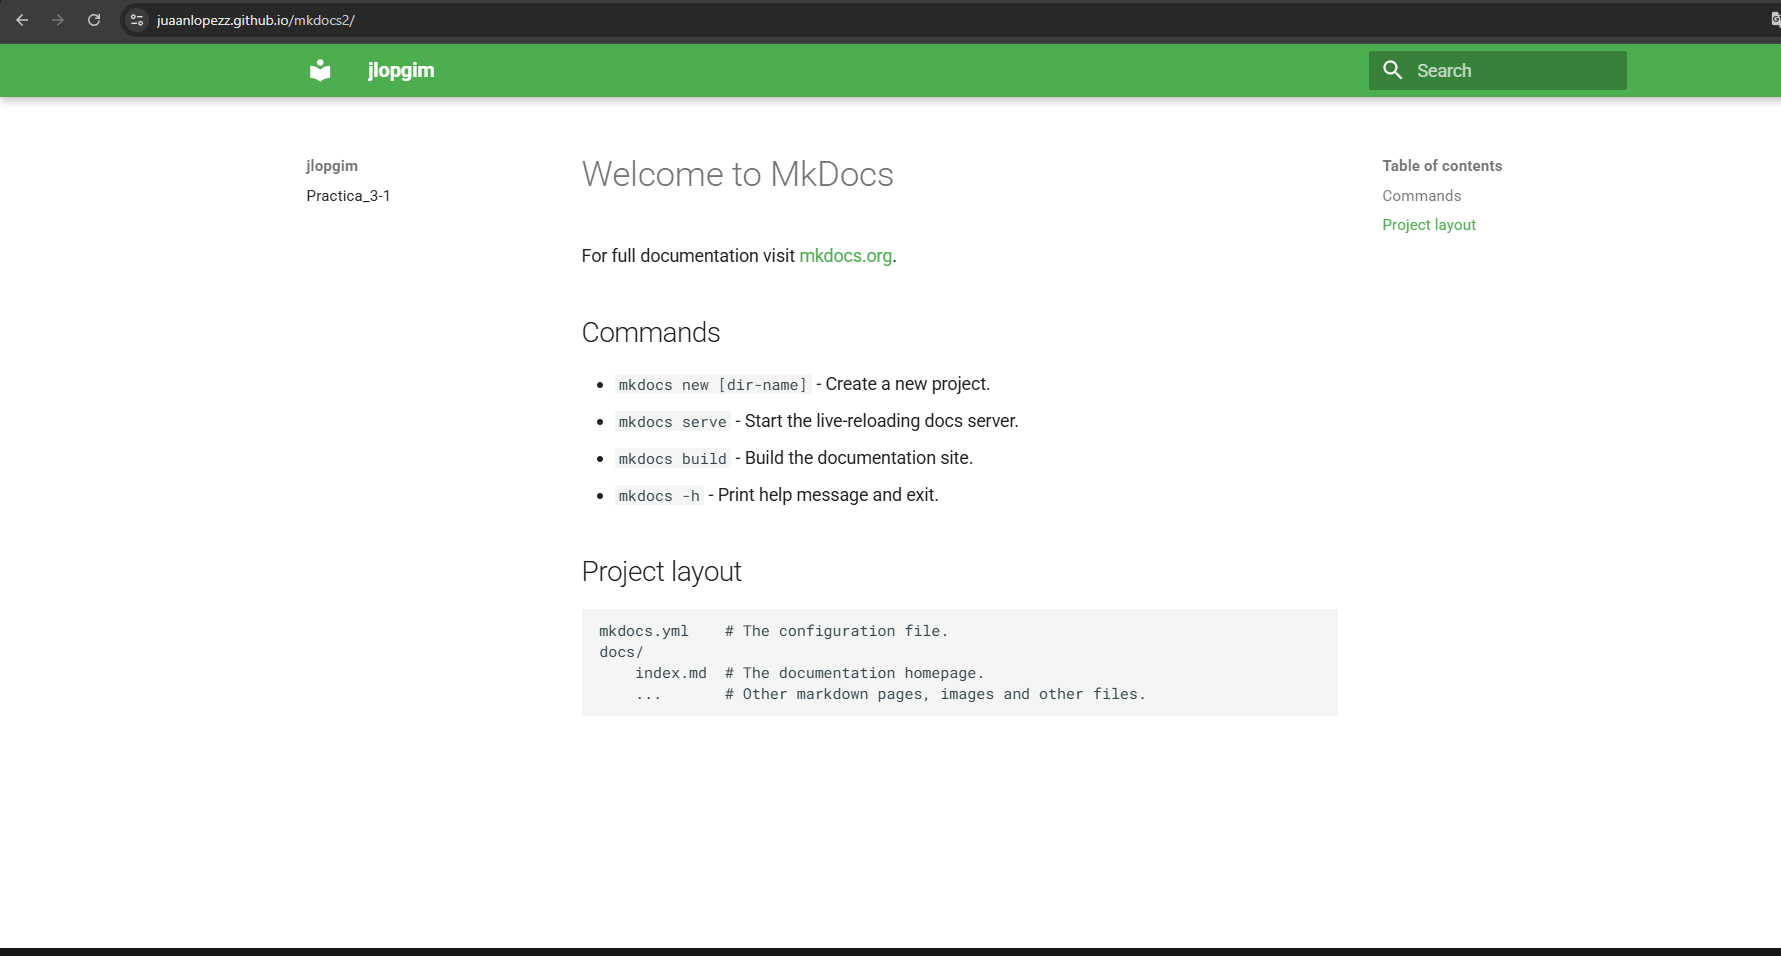
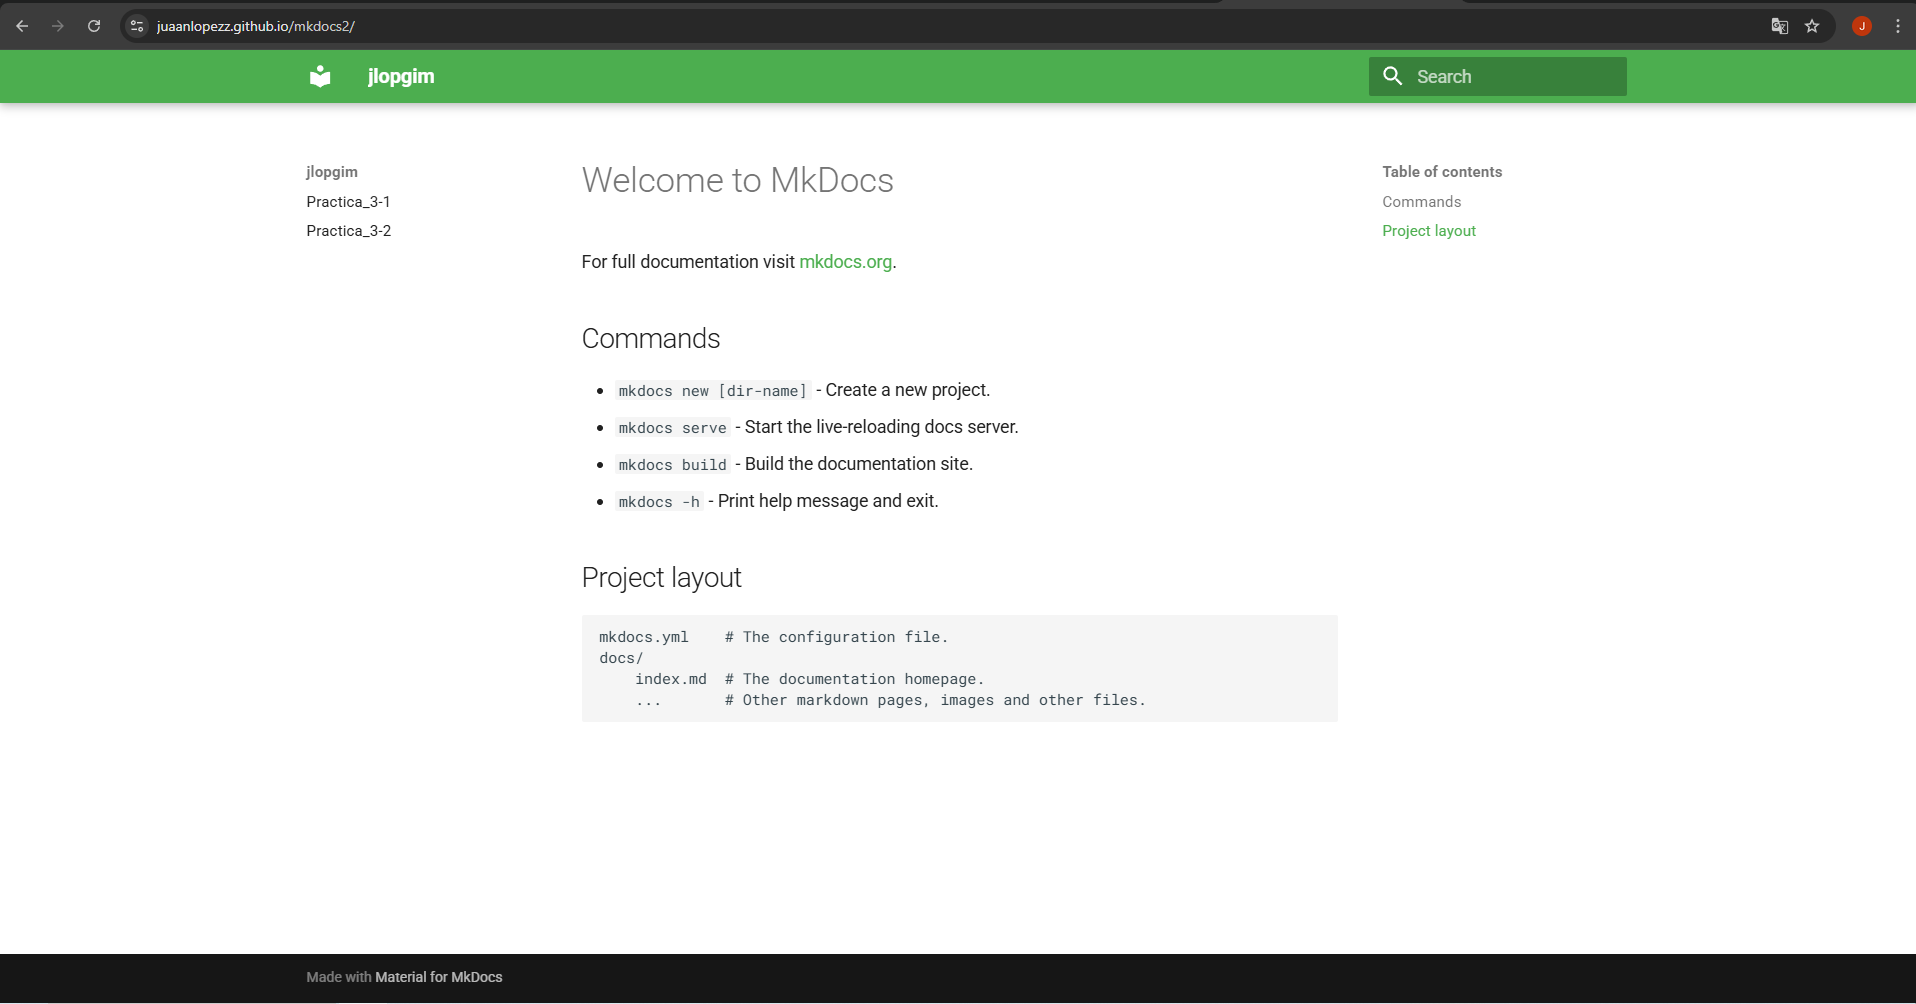
llio

diff --git a/README.md b/README.md
@@ -106,11 +106,27 @@ https://juaanlopezz.github.io/mkdocs2/practica3-1/
 ![](./imagenes/mkdocs.PNG)
 ![](./imagenes/mkdocs1.PNG)
 
-## pagina readme .md del repo 3.2(lo agregué despues, ojo que hay que añadirlo al mkdocs.yml el archivo):
+## pagina readme .md del repo 3.2(lo agregué despues, ojo que hay que añadirlo al mkdocs.yml el archivo, el archivo practica3-2.d se crea dentro de docs, todos los readme que querramos poner habrá que añadirlos en esa ruta):
 
+## el archivo final quedaría asi:
+```
+site_name: jlopgim
+nav:
+  - Practica_3-1: practica3-1.md 
+  - Practica_3-2: practica3-2.md 
 
-## pagina principal:
+theme:
+  name: material
+  palette:
+    primary: green
+![](./imagenes/3.2.PNG)
+```
+
+## pagina principal (despues de haber añadido la 3.2):
 ![](./imagenes/princip.PNG)
+
+## pagina index.md personalizada:
+
 
 
 ## asi tendria que quedar la estructura del repositorio

diff --git a/docs/index.md b/docs/index.md
@@ -1,17 +1,3 @@
-# Welcome to MkDocs
+# bienvenido
 
-For full documentation visit [mkdocs.org](https://www.mkdocs.org).
-
-## Commands
-
-* `mkdocs new [dir-name]` - Create a new project.
-* `mkdocs serve` - Start the live-reloading docs server.
-* `mkdocs build` - Build the documentation site.
-* `mkdocs -h` - Print help message and exit.
-
-## Project layout
-
-    mkdocs.yml    # The configuration file.
-    docs/
-        index.md  # The documentation homepage.
-        ...       # Other markdown pages, images and other files.
+# página juan jesus lopez
